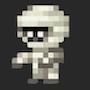
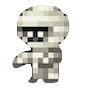
npcs loading, monsters loading

diff --git a/public/js/gamescript.js b/public/js/gamescript.js
@@ -2,7 +2,7 @@
 //
 // Author: Eric Wilke
 //
-// A Javascript browser game in the vein of Ultima.
+// A Javascript browser game in the vain of Ultima.
 
 console.log("=== START SCRIPT ===");
 
@@ -24,6 +24,8 @@ let MAP_WIDTH = 0;
 let MAP_HEIGHT = 0;
 let CURRENT_MUSIC = null;
 let CURRENT_THEME = null;
+let TALK = false
+let COMBAT = false
 let GAME_MAPS = []
 let MESSAGE = "Start your adventure!\nDanger awaits!";
 const THEMES = ["adventure (mellow)", "adventure (epic)", "adventure (dramtic)", "fantasy (epic)", "town", "village", "dungeon (mystical)", "tavern", "danger", "combat", "dungeon", "horror", "sewer"];
@@ -35,7 +37,7 @@ const MOVEMENT_BLOCKING_TILES = ["mountains", "wall (white square)", "wall (whit
 
 
 ///////////////////////////////////////////////////////////
-
+/*
 function Create2DArray(columns, rows) {
   let arr = new Array(rows);
   for (let i=0;i<rows;i++) {
@@ -43,6 +45,7 @@ function Create2DArray(columns, rows) {
   }
   return arr;
 }
+*/
 
 function startMusic(src, loop = true) {
   src.loop = loop;
@@ -219,42 +222,67 @@ function draw() {
 
   //draw npcs
   for (let index in ACTIVE_MAP.npcs) {
-    if ((ACTIVE_MAP.npcs[index].x > PLAYER.x - MAP_TILE_OFFSET) &&
-        (ACTIVE_MAP.npcs[index].x < PLAYER.x + MAP_TILE_OFFSET) &&
-        (ACTIVE_MAP.npcs[index].y > PLAYER.y - MAP_TILE_OFFSET) &&
-        (ACTIVE_MAP.npcs[index].y < PLAYER.y + MAP_TILE_OFFSET) &&
+    if ((ACTIVE_MAP.npcs[index].x > PLAYER.x - MAP_TILE_OFFSET - 1) &&
+        (ACTIVE_MAP.npcs[index].x < PLAYER.x + MAP_TILE_OFFSET + 1) &&
+        (ACTIVE_MAP.npcs[index].y > PLAYER.y - MAP_TILE_OFFSET - 1) &&
+        (ACTIVE_MAP.npcs[index].y < PLAYER.y + MAP_TILE_OFFSET + 1) &&
         (isPointVisible(ACTIVE_MAP.npcs[index].x,ACTIVE_MAP.npcs[index].y,PLAYER.x,PLAYER.y))) {
-          //calculate the screen x & y for the npc placement
+          let drawTile = null
           switch (ACTIVE_MAP.npcs[index].tile) {
             case "king":
-              ctx.drawImage(tile_king, (360 - (PLAYER.x - ACTIVE_MAP.npcs[index].x)*90), (360 - (PLAYER.y - ACTIVE_MAP.npcs[index].y)*90))
+              drawTile = tile_king
+              break
+            case "castle guard":
+              drawTile = tile_castle_guard
+              break
+            case "old man":
+              drawTile = tile_old_man
+              break
+            case "commoner 1":
+              drawTile = tile_commoner_1
+              break
+            case "commoner 2":
+              drawTile = tile_commoner_2
+              break
+            case "commoner 3":
+              drawTile = tile_commoner_3
+              break
+            case "commoner 4":
+              drawTile = tile_commoner_4
+              break
+            case "commoner 5":
+              drawTile = tile_commoner_5
               break
           }
+          ctx.drawImage(drawTile, (360 - (PLAYER.x - ACTIVE_MAP.npcs[index].x)*90), (360 - (PLAYER.y - ACTIVE_MAP.npcs[index].y)*90))
     }
   }
 
   //draw monsters
   for (let index = 0; index < ACTIVE_MAP.monsters.length; index++) {
-    //console.log(ACTIVE_MAP.monsters[i].name + " at (" + ACTIVE_MAP.monsters[i].x + ", " + ACTIVE_MAP.monsters[i].y + ")");
-    if ((ACTIVE_MAP.monsters[index].x > PLAYER.x - MAP_TILE_OFFSET) &&
-        (ACTIVE_MAP.monsters[index].x < PLAYER.x + MAP_TILE_OFFSET) &&
-        (ACTIVE_MAP.monsters[index].y > PLAYER.y - MAP_TILE_OFFSET) &&
-        (ACTIVE_MAP.monsters[index].y < PLAYER.y + MAP_TILE_OFFSET) &&
+    if ((ACTIVE_MAP.monsters[index].x > PLAYER.x - MAP_TILE_OFFSET - 1) &&
+        (ACTIVE_MAP.monsters[index].x < PLAYER.x + MAP_TILE_OFFSET + 1) &&
+        (ACTIVE_MAP.monsters[index].y > PLAYER.y - MAP_TILE_OFFSET - 1) &&
+        (ACTIVE_MAP.monsters[index].y < PLAYER.y + MAP_TILE_OFFSET + 1) &&
         (isPointVisible(ACTIVE_MAP.monsters[index].x,ACTIVE_MAP.monsters[index].y,PLAYER.x,PLAYER.y))) {
           //calculate the screen x & y for the npc placement
           let drawTile = null
+          //console.log(ACTIVE_MAP.monsters[index].tile + " at (" + ACTIVE_MAP.monsters[index].x + ", " + ACTIVE_MAP.monsters[index].y + ")");
           switch (ACTIVE_MAP.monsters[index].tile) {
+            case "mummy":
+              drawTile = tile_mummy
+              break
             case "rat":
-              drawTime = tile_rat
+              drawTile = tile_rat
               break
             case "scorpion":
-              drawTime = tile_scorpion
+              drawTile = tile_scorpion
               break
             case "skeleton":
-              drawTime = tile_skeleton
+              drawTile = tile_skeleton
               break
             case "skeleton guard":
-              drawTime = tile_skeleton_guard
+              drawTile = tile_skeleton_guard
               break
             case "zombie":
               drawTile = tile_zombie
@@ -356,14 +384,6 @@ async function gameLoop() {
       MESSAGE = "Game saved...";
       await ACTIVE_MAP.saveMap();
       break;
-
-    case "1":
-      activateMap("britania")
-      break
-
-    case "2":
-      activateMap("castlebritania")
-      break
   }
   draw();
   KEY_PRESS = null;
@@ -386,7 +406,7 @@ function activateMap(name) {
     console.log("name to match = " + name);
     if(GAME_MAPS[i].name == name) {
       console.log("[activateMap] Found target");
-      console.log(GAME_MAPS[i].tiles)
+      //console.log(GAME_MAPS[i].tiles)
       ACTIVE_MAP = GAME_MAPS[i]
       PLAYER.x = ACTIVE_MAP.playerStartX
       PLAYER.y = ACTIVE_MAP.playerStartY

diff --git a/public/js/player.js b/public/js/player.js
@@ -35,6 +35,11 @@ class Player {
         x = this.x
       }
     }
+    for (let index = 0; index < ACTIVE_MAP.monsters.length; index++) {
+      if (x == ACTIVE_MAP.monsters[index].x && PLAYER.y == ACTIVE_MAP.monsters[index].y) {
+        x = this.x
+      }
+    }
     const portal = this.checkForPortal(x,this.y)
     if (portal != null) {
       console.log("TEST for LOAD: Need to switch maps");
@@ -62,6 +67,11 @@ class Player {
         x = this.x
       }
     }
+    for (let index = 0; index < ACTIVE_MAP.monsters.length; index++) {
+      if (x == ACTIVE_MAP.monsters[index].x && PLAYER.y == ACTIVE_MAP.monsters[index].y) {
+        x = this.x
+      }
+    }
     const portal = this.checkForPortal(x,this.y)
     if (portal != null) {
       //console.log("Need to switch maps");
@@ -80,12 +90,17 @@ class Player {
     }
     let tile = ACTIVE_MAP.tiles[y][this.x];
     if (MOVEMENT_BLOCKING_TILES.includes(tile)) {
-      console.log("blocking tile: " + tile);
+      //console.log("blocking tile: " + tile);
       y=this.y;
       startMusic(blockedSound, false);
     }
     for (let index in ACTIVE_MAP.npcs) {
       if (PLAYER.x == ACTIVE_MAP.npcs[index].x && y == ACTIVE_MAP.npcs[index].y) {
+        y = this.y
+      }
+    }
+    for (let index = 0; index < ACTIVE_MAP.monsters.length; index++) {
+      if (PLAYER.x == ACTIVE_MAP.monsters[index].x && y == ACTIVE_MAP.monsters[index].y) {
         y = this.y
       }
     }
@@ -112,6 +127,11 @@ class Player {
     }
     for (let index in ACTIVE_MAP.npcs) {
       if (PLAYER.x == ACTIVE_MAP.npcs[index].x && y == ACTIVE_MAP.npcs[index].y) {
+        y = this.y
+      }
+    }
+    for (let index = 0; index < ACTIVE_MAP.monsters.length; index++) {
+      if (PLAYER.x == ACTIVE_MAP.monsters[index].x && y == ACTIVE_MAP.monsters[index].y) {
         y = this.y
       }
     }

diff --git a/public/js/loadassets.js b/public/js/loadassets.js
@@ -48,7 +48,15 @@ const tile_counter_vertical = new Image(); tile_counter_vertical.src = 'img/coun
 
 const tile_player = new Image(); tile_player.src = 'img/player.png';
 const tile_king = new Image(); tile_king.src = 'img/king.png';
+const tile_castle_guard = new Image(); tile_castle_guard.src = 'img/castle-guard.png';
+const tile_old_man = new Image(); tile_old_man.src = 'img/old-man.png';
+const tile_commoner_1 = new Image(); tile_commoner_1.src = 'img/commoner1.png';
+const tile_commoner_2 = new Image(); tile_commoner_2.src = 'img/commoner2.png';
+const tile_commoner_3 = new Image(); tile_commoner_3.src = 'img/commoner3.png';
+const tile_commoner_4 = new Image(); tile_commoner_4.src = 'img/commoner4.png';
+const tile_commoner_5 = new Image(); tile_commoner_5.src = 'img/commoner5.png';
 
+const tile_beholder = new Image(); tile_beholder.src = 'img/beholder.png';
 const tile_goblin = new Image(); tile_goblin.src = 'img/goblin.png';
 const tile_zombie = new Image(); tile_zombie.src = 'img/zombie.png';
 const tile_zombie_king = new Image(); tile_zombie_king.src = 'img/zombie-king.png';

diff --git a/public/empyrean-splash.html b/public/empyrean-splash.html
@@ -32,6 +32,9 @@
     d = move right<br>
     w = move up<br>
     s = move down<br>
+    <br>
+    t = talk<br>
+    [SPACEBAR] = attack<br>
 
     <center>
       <a href="/play">Play the game</href>
